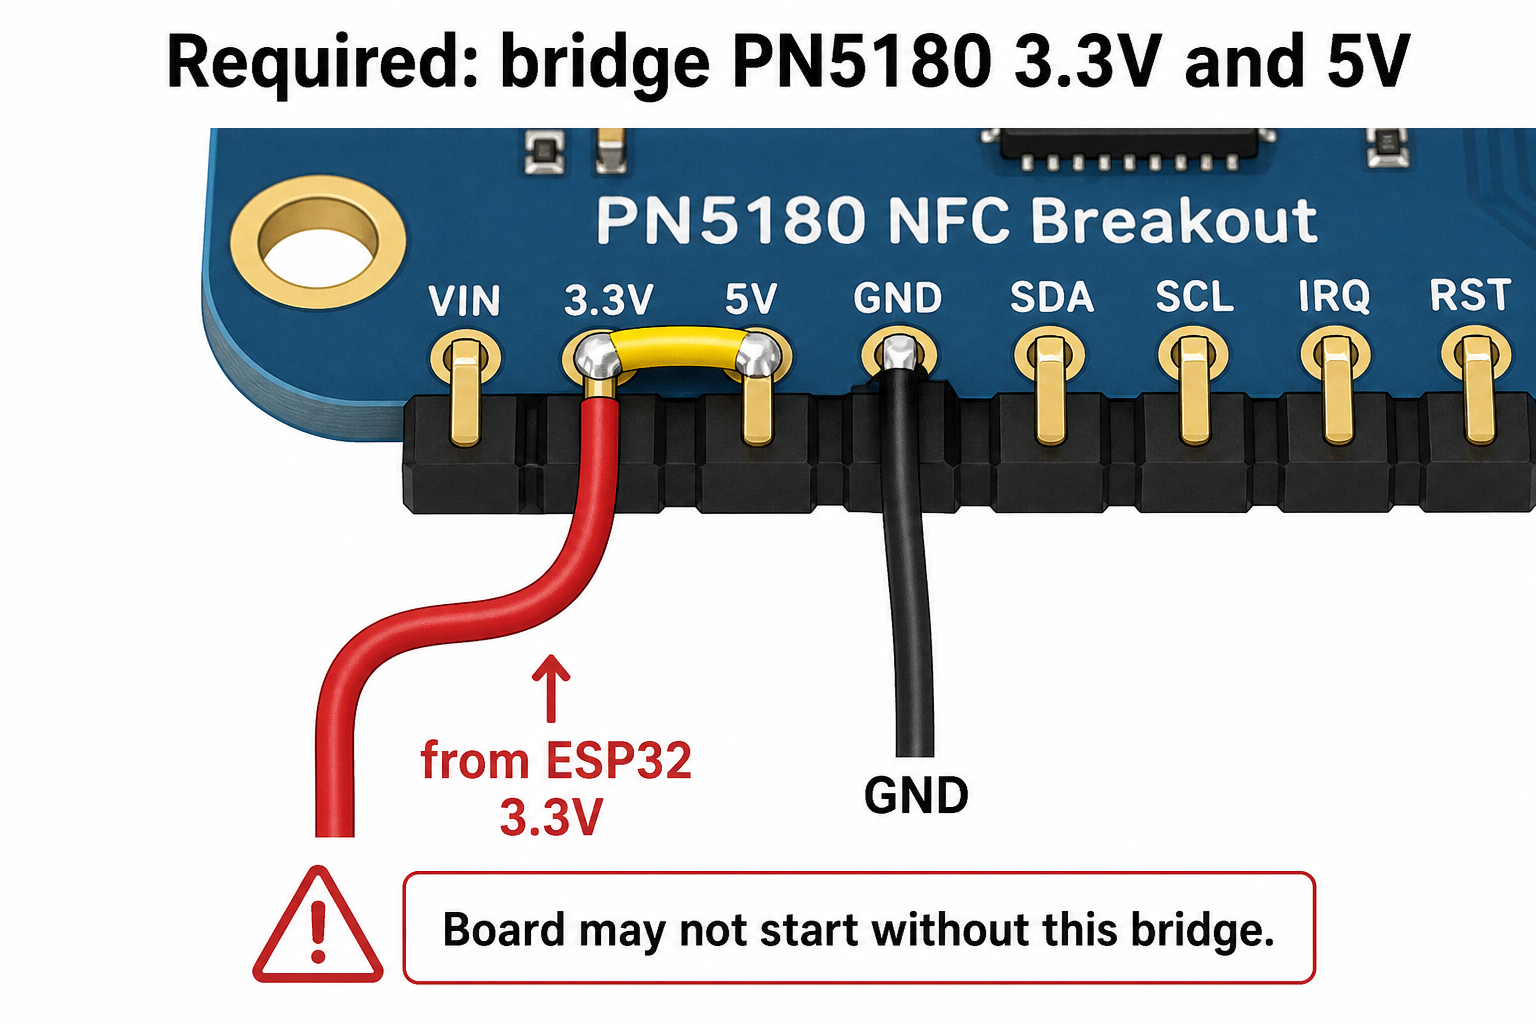
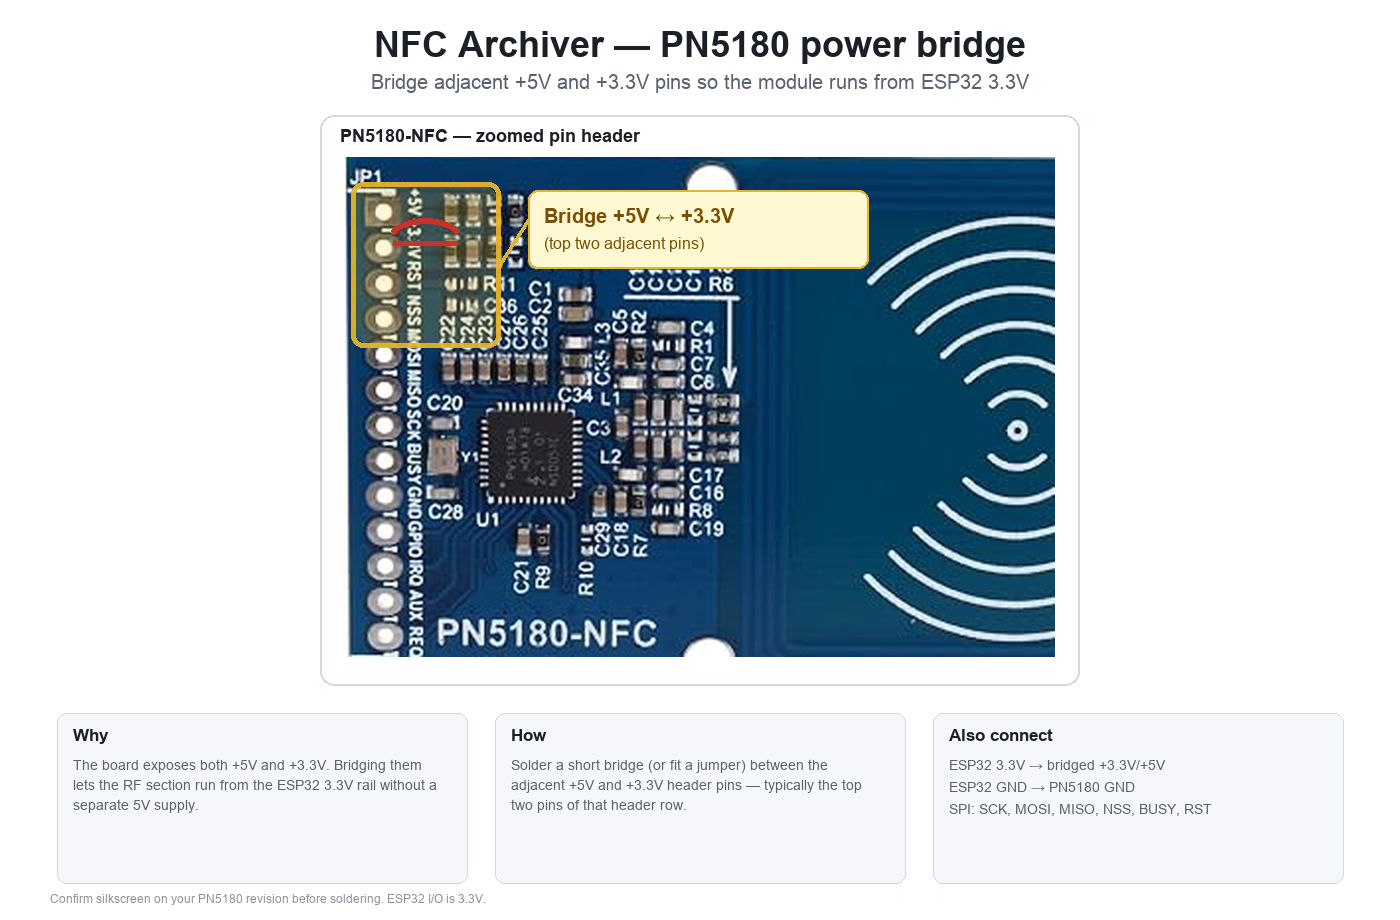
docs: real module photos in wiring diagrams (ESP32, PN5180, WS2811)

diff --git a/docs/hardware.md b/docs/hardware.md
@@ -8,13 +8,19 @@ Reference hardware for the public NFC Archiver firmware image.
 |------|--------|
 | Product | NFC Archiver |
 | Manufacturer | RFIDfriend.com |
-| MCU board | Wemos D1 mini ESP32-WROOM (`ESP32-WROOM`) |
-| NFC frontend | NXP PN5180 |
-| Status LED | WS2812 / WS2812B (1 pixel) |
-| Power (standard) | USB on the Wemos (3.3 V rail shared with PN5180 + LED) |
+| MCU board | Wemos D1 mini ESP32-WROOM (`ESP-WROOM-32`) |
+| NFC frontend | PN5180-NFC module (e.g. rev **R1.1-170710**) |
+| Status LED | **WS2811 Breakout** (NeoPixel-compatible single LED) |
+| Power (standard) | USB on the Wemos (shared **3.3 V** rail) |
 | Power (optional) | LiPo battery extension — see [Optional: battery extension](#optional-battery-extension) |
 
-The **standard build** is only three parts: **ESP32**, **PN5180**, and **RGB LED**. Battery hardware is an **optional extension**, not required to run the reader.
+The **standard build** is only three parts: **ESP32**, **PN5180-NFC**, and **WS2811 Breakout**. Battery hardware is an **optional extension**, not required to run the reader.
+
+### Components (reference photos)
+
+| Wemos D1 mini ESP32 | PN5180-NFC | WS2811 Breakout |
+|:-------------------:|:----------:|:---------------:|
+| ![Wemos ESP32](images/wemos-esp32.png) | ![PN5180-NFC](images/pn5180-nfc.png) | ![WS2811 Breakout](images/ws2811-breakout.png) |
 
 ---
 
@@ -24,84 +30,83 @@ The **standard build** is only three parts: **ESP32**, **PN5180**, and **RGB LED
 
 | Qty | Part | Notes |
 |-----|------|--------|
-| 1 | Wemos D1 mini ESP32-WROOM | 3.3 V logic; USB for flash / power / serial |
-| 1 | PN5180 NFC reader module | ISO 15693 / Vicinity; SPI |
-| 1 | WS2812B LED (or strip segment) | Single pixel |
-| — | Solder bridge / short jumper | Bridge PN5180 **3.3 V** ↔ **5 V** (required) |
+| 1 | Wemos D1 mini ESP32-WROOM | `ESP-WROOM-32`; USB for flash / power / serial |
+| 1 | PN5180-NFC reader module | Header **JP1**: `+5V`, `+3.3V`, `RST`, `NSS`, `MOSI`, `MISO`, `SCK`, `BUSY`, `GND`, … |
+| 1 | WS2811 Breakout | Pads **5V / DI / GND** (single status LED) |
+| — | Solder bridge / short jumper | Bridge PN5180 **`+5V` ↔ `+3.3V`** (required) |
 | — | Wiring / headers | Match pinout below |
-| — | Antenna | On-module or external per PN5180 design |
 
 ### Wiring overview
 
-![Standard wiring: ESP32, PN5180, WS2812 RGB LED](images/nfc-archiver-standard-wiring.png)
-
-*Same diagram as SVG (sharp in browsers): [standard-wiring.svg](images/standard-wiring.svg)*
+![Standard wiring with real modules: ESP32, PN5180-NFC, WS2811 Breakout](images/nfc-archiver-standard-wiring.png)
 
 ```mermaid
 flowchart LR
   subgraph STD["Standard build"]
-    ESP["Wemos D1 mini<br/>ESP32-WROOM"]
-    PN["PN5180 NFC"]
-    LED["WS2812<br/>RGB LED"]
+    ESP["Wemos D1 mini<br/>ESP-WROOM-32"]
+    PN["PN5180-NFC"]
+    LED["WS2811 Breakout"]
   end
   ESP -->|"SPI + CTRL<br/>GPIO 18/23/19/5/4/16"| PN
   ESP -->|"3.3V + GND"| PN
-  ESP -->|"GPIO14 data<br/>3.3V + GND"| LED
-  PN -.->|"3.3V ↔ 5V bridge"| PN
+  ESP -->|"GPIO14 → DI<br/>3.3V → 5V pad, GND"| LED
+  PN -.->|"+5V ↔ +3.3V bridge"| PN
 ```
 
 ### Pinout (standard)
 
-SPI and control between **ESP32** and **PN5180**, plus LED data:
+| Signal | ESP32 GPIO / rail | Destination |
+|--------|-------------------|-------------|
+| SPI SCK | **GPIO18** | PN5180 **SCK** |
+| SPI MOSI | **GPIO23** | PN5180 **MOSI** |
+| SPI MISO | **GPIO19** | PN5180 **MISO** |
+| Chip select | **GPIO5** | PN5180 **NSS** |
+| Busy | **GPIO4** | PN5180 **BUSY** |
+| Reset | **GPIO16** | PN5180 **RST** |
+| LED data | **GPIO14** | WS2811 **DI** (board label on ESP32 often **TMS**) |
+| 3.3 V | **3.3V** | PN5180 **`+3.3V` + `+5V`** (bridged); WS2811 **5V** pad |
+| Ground | **GND** | PN5180 **GND**; WS2811 **GND** |
 
-| Signal | ESP32 GPIO | PN5180 / LED |
-|--------|------------|----------------|
-| SPI SCK | **18** | SCK |
-| SPI MOSI | **23** | MOSI |
-| SPI MISO | **19** | MISO |
-| Chip select | **5** | NSS / CS |
-| Busy | **4** | BUSY |
-| Reset | **16** | RST |
-| LED data | **14** | WS2812 DIN (board label often **TMS**) |
-| 3.3 V | **3.3V** | PN5180 **3.3V** + **5V** (bridged), LED VCC |
-| Ground | **GND** | PN5180 GND, LED GND |
+PN5180 pins **GPIO / IRQ / AUX / REQ** are unused in the standard firmware build.
 
 #### Quick reference
 
 ```
-SCK  18
-MOSI 23
-MISO 19
-CS    5
-BUSY  4
-RST  16
-LED  14
+SCK   GPIO18  →  PN5180 SCK
+MOSI  GPIO23  →  PN5180 MOSI
+MISO  GPIO19  →  PN5180 MISO
+CS    GPIO5   →  PN5180 NSS
+BUSY  GPIO4   →  PN5180 BUSY
+RST   GPIO16  →  PN5180 RST
+LED   GPIO14  →  WS2811 DI
+3.3V          →  PN5180 +3.3V/+5V (bridged), WS2811 5V
+GND           →  PN5180 GND, WS2811 GND
 ```
 
-### Required: PN5180 `3.3V` ↔ `5V` bridge
+> **LED power:** One WS2811 status LED can run from the ESP32 **3.3 V** rail into the breakout’s **5V** pad. Do **not** power long LED strips from 3.3 V.
 
-On most PN5180 modules the **3.3 V** and **5 V** supply pins sit next to each other. For the standard USB/ESP32‑only build, feed the module from the Wemos **3.3 V** rail and **short those two pins** (solder bridge or jumper) so **3.3 V is applied to both**.
+### Required: PN5180 `+5V` ↔ `+3.3V` bridge
 
-![Bridge PN5180 3.3V and 5V pins](images/nfc-archiver-pn5180-bridge.png)
+On the PN5180-NFC module (JP1), **`+5V`** and **`+3.3V`** are the **top two adjacent pins**. For the standard USB/ESP32‑only build, feed the module from the Wemos **3.3 V** rail and **short those two pins** (solder bridge or jumper) so **3.3 V reaches both**.
 
-*[SVG](images/pn5180-bridge.svg)*
+![Bridge PN5180 +5V and +3.3V pins on JP1](images/nfc-archiver-pn5180-bridge.png)
 
 | Without bridge | With bridge |
 |----------------|-------------|
-| Often only one supply domain is powered → module does not boot / RF never comes up | Both module supply pins see 3.3 V → board starts |
+| Often only one supply domain is powered → module does not boot / RF never comes up | Both supply pins see 3.3 V → board starts |
 
 ```
-Wemos 3.3V  ──►  PN5180 3.3V  ──(short)──  PN5180 5V
+Wemos 3.3V  ──►  PN5180 +3.3V  ──(short)──  PN5180 +5V
 Wemos GND   ──►  PN5180 GND
 ```
 
 SPI and control stay at **3.3 V logic**. Do **not** drive ESP32 GPIOs with 5 V.
 
-> Dedicated 5 V on the module’s `5V` pin can improve RF range when a true 5 V rail exists. For the standard ESP32‑only build, bridging both pins to **3.3 V** is the documented working setup.
+> Confirm silkscreen on your module revision before soldering. Dedicated 5 V on `+5V` can improve RF range when a true 5 V rail exists; for the standard ESP32‑only build, bridging to **3.3 V** is the documented setup.
 
 ### Standard power
 
-Power the Wemos over **USB**. The onboard regulator supplies the shared **3.3 V** rail for ESP32, bridged PN5180, and LED.
+Power the Wemos over **USB**. The onboard regulator supplies the shared **3.3 V** rail for ESP32, bridged PN5180, and the status LED.
 
 ---
 
@@ -120,8 +125,6 @@ Battery operation is **not** part of the standard reader. Add it only if you wan
 ### Wiring (optional)
 
 ![Optional battery extension with 1N4007 diode](images/nfc-archiver-battery-option.png)
-
-*[SVG](images/battery-option.svg)*
 
 ```mermaid
 flowchart LR
@@ -158,7 +161,7 @@ Optional: battery voltage divider → **GPIO34** (ADC1, input‑only). Exact res
 - Logic levels are **3.3 V**. Do not drive the ESP32 or PN5180 with 5 V IO.
 - Keep SPI wires short; poor wiring shows up as flaky NFC or bus hangs.
 - USB on the Wemos is used for the [Web Serial flasher](../flash/) and serial logs (typically 115200 baud).
-- ESP32 boots but NFC dead → check the **3.3 V↔5 V bridge**. Battery pack and PN5180 flaky → check the optional **1N4007** drop.
+- ESP32 boots but NFC dead → check the **`+5V` ↔ `+3.3V` bridge**. Battery pack and PN5180 flaky → check the optional **1N4007** drop.
 
 ## Related
 

diff --git a/docs/flashing.md b/docs/flashing.md
@@ -65,7 +65,7 @@ Third-party apps can implement the same OTA sequence.
 | No serial port | Cable, drivers, another app holding the port |
 | Install fails mid-way | Retry erase install; try a different USB port/cable |
 | Device boots but no BLE | Confirm you flashed the RFIDfriend NFC Archiver image; check LED / battery |
-| ESP32 OK, PN5180 dead / no NFC | Bridge PN5180 **3.3 V↔5 V** and feed 3.3 V to both — see [hardware.md](hardware.md#required-pn5180-33v--5v-bridge) |
+| ESP32 OK, PN5180 dead / no NFC | Bridge PN5180 **`+5V` ↔ `+3.3V`** (top two JP1 pins) — see [hardware.md](hardware.md#required-pn5180-5v--33v-bridge) |
 | Battery pack, PN5180 flaky | Optional extension: series **1N4007** into Wemos 3.3 V — see [hardware.md](hardware.md#optional-battery-extension) |
 | BLE OTA fails locked | Unlock first; check `bleOta` capability |
 | BLE OTA CRC error | Use the exact `nfc-archiver.bin` from the same `version.json` release |
